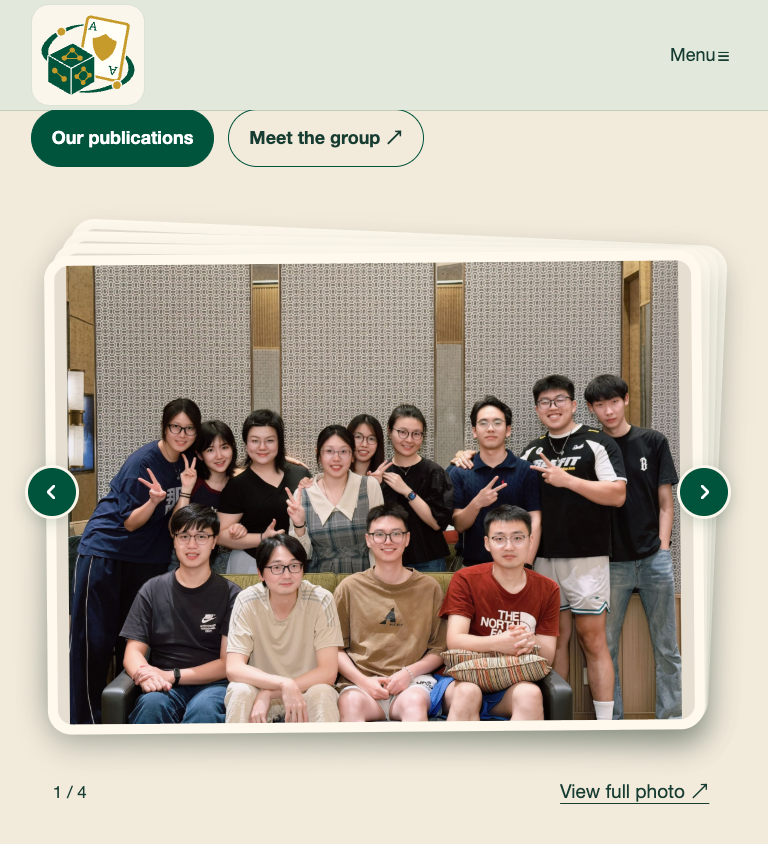
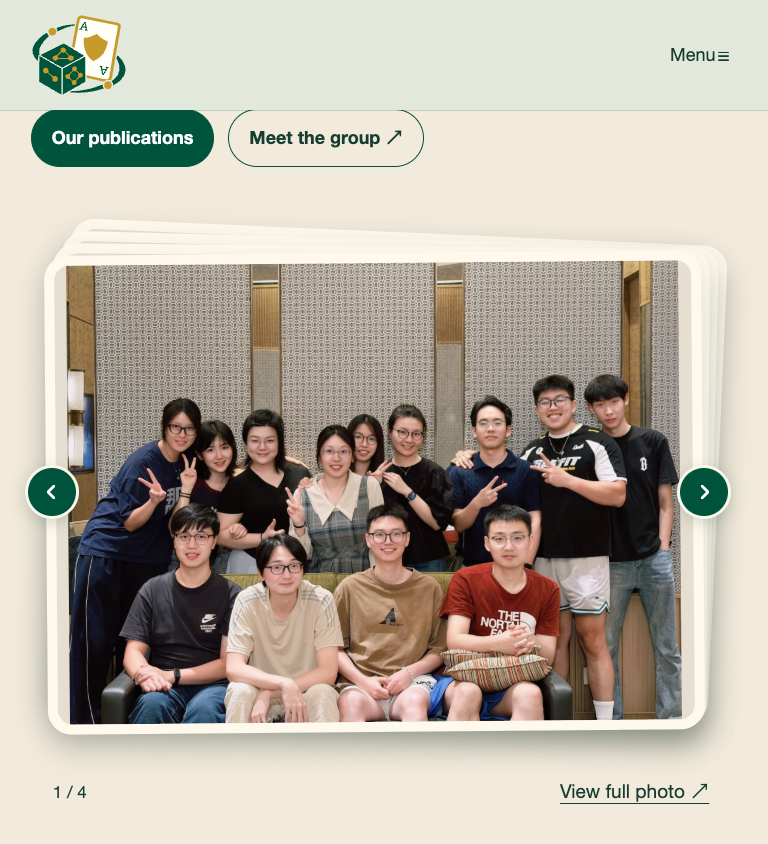
Update Site source

Changed region(s): [[0.0312, 0.0, 0.1875, 0.1232]]

diff --git a/dist/gold.css b/dist/gold.css
@@ -21,6 +21,6 @@ body{font-size:20px;line-height:1.65}.wrap{width:92%;max-width:1440px}p{font-siz
 html{scroll-padding-top:140px}.site-header{position:sticky;top:0;z-index:40;box-shadow:0 1px 0 var(--line)}#navigation .join-link[aria-current=page]::after{content:none}.hm-hero{align-items:start}.acronym-letter{text-decoration:none}.stack-sheet{transform:translate(calc(var(--depth)*5px),calc(var(--depth)*-7px)) rotate(calc(var(--depth)*1deg - .5deg))}.hm-stories{display:block}.hm-stories>.text-link{display:inline-block;margin-top:26px}.hm-story-list h3 a{font-size:inherit}.hm-about .about-text a{color:inherit;text-decoration:underline;text-underline-offset:4px}.application-materials{margin:12px 0 22px}.application-materials li{margin:6px 0}
 
 /* Sage navigation and visible controls on both sides of the album. */
-.site-header{background:#e2e8dc}.brand{display:inline-flex;align-items:center;justify-content:center;justify-self:start;padding:8px;background:#faf6eb;border:1px solid rgba(0,84,60,.12);border-radius:18px}.brand img{display:block}.gallery-arrow{position:absolute;top:50%;z-index:15;transform:translateY(-50%);display:grid;place-items:center;width:54px;height:54px;padding:0;border:3px solid #faf6eb;border-radius:50%;background:var(--green);color:#fff;box-shadow:0 4px 16px rgba(0,54,39,.2)}.gallery-arrow svg{width:24px;height:24px;fill:none;stroke:currentColor;stroke-width:2.5;stroke-linecap:round;stroke-linejoin:round}.gallery-arrow:hover{background:#173d32;box-shadow:0 4px 18px rgba(0,54,39,.3)}.gallery-arrow:focus-visible{outline:3px solid var(--gold);outline-offset:3px}.gallery-prev{left:-6px}.gallery-next{right:6px}.stack-sheet{transition:transform .36s ease}
-@media(max-width:600px){.header-inner{grid-template-columns:100px 1fr}.brand{padding:5px;border-radius:14px}.gallery-arrow{width:44px;height:44px}.gallery-arrow svg{width:22px;height:22px}.gallery-prev{left:-3px}.gallery-next{right:5px}}
+.site-header{background:#e2e8dc}.brand{display:inline-flex;align-items:center;justify-content:center;justify-self:start}.brand img{display:block}.gallery-arrow{position:absolute;top:50%;z-index:15;transform:translateY(-50%);display:grid;place-items:center;width:54px;height:54px;padding:0;border:3px solid #faf6eb;border-radius:50%;background:var(--green);color:#fff;box-shadow:0 4px 16px rgba(0,54,39,.2)}.gallery-arrow svg{width:24px;height:24px;fill:none;stroke:currentColor;stroke-width:2.5;stroke-linecap:round;stroke-linejoin:round}.gallery-arrow:hover{background:#173d32;box-shadow:0 4px 18px rgba(0,54,39,.3)}.gallery-arrow:focus-visible{outline:3px solid var(--gold);outline-offset:3px}.gallery-prev{left:-6px}.gallery-next{right:6px}.stack-sheet{transition:transform .36s ease}
+@media(max-width:600px){.gallery-arrow{width:44px;height:44px}.gallery-arrow svg{width:22px;height:22px}.gallery-prev{left:-3px}.gallery-next{right:5px}}
 @media(prefers-reduced-motion:reduce){.stack-sheet{transition:none}}

diff --git a/README.md b/README.md
@@ -1,0 +1,27 @@
+# CASINO Lab website
+
+English website for the Collaborative Security and Interaction Group at the University of Macau.
+
+## Run locally
+
+No build step or frontend dependencies are required. From the repository root:
+
+```sh
+python3 -m http.server 4173 --directory dist
+```
+
+Open <http://localhost:4173/lab.html#home>. Use HTTP rather than opening the HTML directly: the website loads its content from JSON.
+
+## Edit the website
+
+- `dist/data/lab.json`: members, publications, application information, image paths and site settings.
+- `dist/assets/`: SVG logos, member portraits and the four group photos.
+- `dist/lab.js`, `dist/lab.html`, `dist/gold.css`: pages, interactions, shared navigation and current visual style.
+- `dist/models.js`: one `Member` or `Paper` instance per JSON record. Member papers are linked through `authors[].personId`.
+- `contracts/models.ts` and `contracts/README.md`: data types and proposed backend API contract.
+
+Every paper has a `pageUrl`: an internal `#publications/{id}` detail page or a verified external paper-page URL. Image URLs are resolved relative to the HTML page.
+
+Deploy the contents of `dist/` with any static web host. The current Sites deployment configuration is in `.openai/hosting.json`. There is no backend or CMS in this repository.
+
+See [CONTENT-MIGRATION.md](CONTENT-MIGRATION.md) for source coverage and editing instructions, and [SITE-FUNCTIONS.md](SITE-FUNCTIONS.md) for page behavior. Migration scripts can overwrite manual content edits; review their output before re-importing.

diff --git a/SITE-FUNCTIONS.md b/SITE-FUNCTIONS.md
@@ -10,7 +10,7 @@ The selected third direction opens `dist/lab.html`, with its original warm-paper
 | News | JSON-backed story pages and a group photo; the source has no dated news records |
 | Contact | Applicant-specific accordions, source application materials as bullet lists, email link/copy and recruitment guidance |
 
-Shared: sticky sage navigation with the logo on an ivory backing, mobile menu, hash deep links, browser Back/Forward, keyboard focus and Escape dismissal for dialogs. Contact has no active-state underline. Every page has the vector emblem in its header; the bottom footer reads CASINO@UMAC. Main text is 20–22px. Layout uses the original third direction's rounded cards and green/gold sections. The Research page and homepage research-area section have been removed; research metadata remains available in JSON.
+Shared: sticky sage navigation with a transparent SVG logo and no extra backing, mobile menu, hash deep links, browser Back/Forward, keyboard focus and Escape dismissal for dialogs. Contact has no active-state underline. Every page has the vector emblem in its header; the bottom footer reads CASINO@UMAC. Main text is 20–22px. Layout uses the original third direction's rounded cards and green/gold sections. The Research page and homepage research-area section have been removed; research metadata remains available in JSON.
 
 ## Content to supply
 
